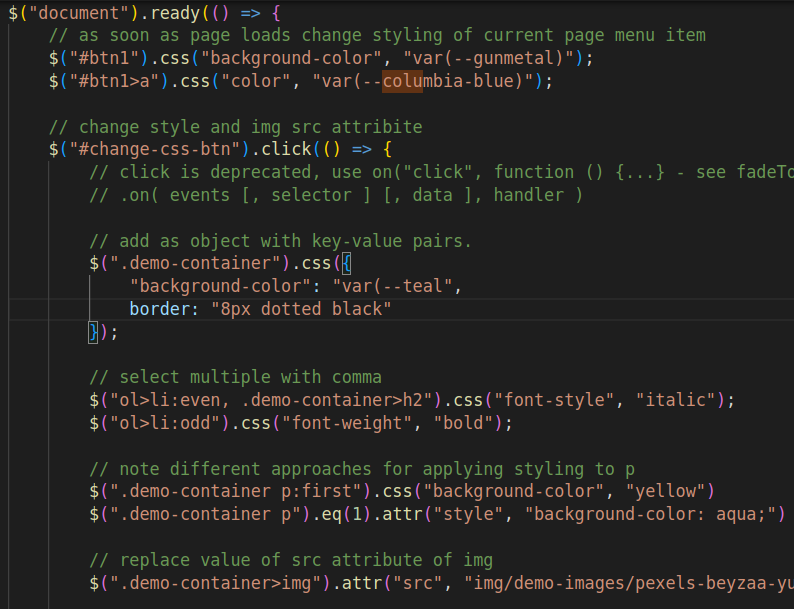
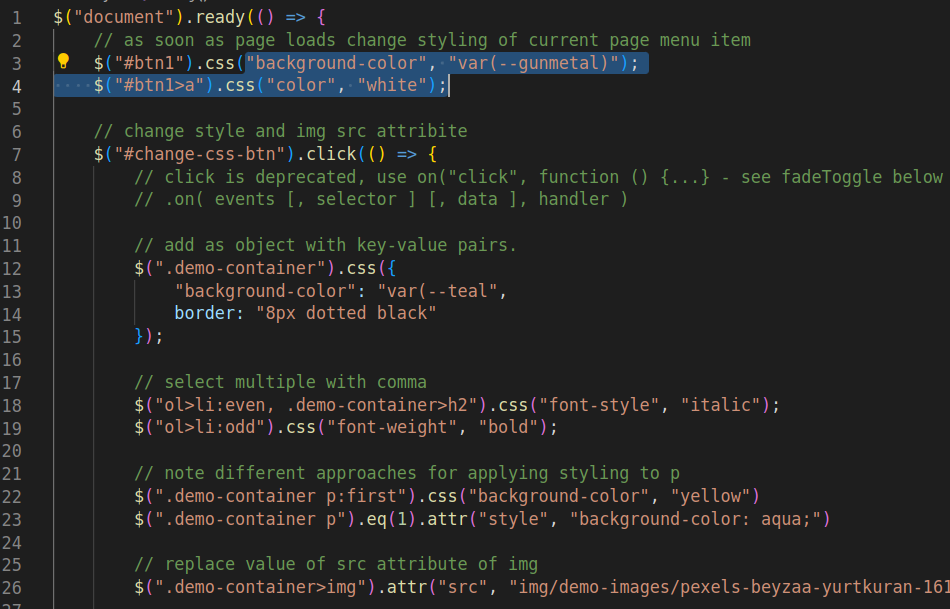
display flex of demo container to always keep buttons at bottom

diff --git a/events.html b/events.html
@@ -42,10 +42,10 @@
                 </tr>
                 <tr>
                     <td>
-                    <p>Syntax:&nbsp;&nbsp;</p>
+                        <p>Syntax:&nbsp;&nbsp;</p>
                     </td>
                     <td>
-                    <h3>on( events [, selector ] [, data ], handler ) </h3>
+                        <h3>on( events [, selector ] [, data ], handler ) </h3>
                     </td>
                 </tr>
             </table>
@@ -58,18 +58,21 @@
         </aside>
         <section>
             <div class="demo-container">
-                <h2>some heading</h2>
-                <ol id="events-list">
-                    <li>li Item 1</li>
-                    <li>li Item 2</li>
-                    <li>li Item 3</li>
-                    <li>li Item 4</li>
-                </ol>
-                <p>Paragraph 1</p>
-                <p>Paragraph 2</p>
-                <img src="img/demo-images/pexels-mathias-reding-16124576.jpg" alt="piano" class="demo--img">
+                <div>
+                    <h2>some heading</h2>
+                    <ol id="events-list">
+                        <li>li Item 1</li>
+                        <li>li Item 2</li>
+                        <li>li Item 3</li>
+                        <li>li Item 4</li>
+                    </ol>
+                    <p>Paragraph 1</p>
+                    <p>Paragraph 2</p>
+                    <img src="img/demo-images/pexels-mathias-reding-16124576.jpg" alt="piano" class="demo--img">
+                </div>
+
                 <div class="buttons-panel">
-                    <button id="change-css-btn" class="action-buttons">css</button>
+                    <button id="change-css-btn" class="action-buttons">css/attr</button>
                     <button id="toggle-fade-btn" class="action-buttons">fadeToggle</button>
                 </div>
             </div>
@@ -87,7 +90,6 @@
                     <p> .css( propertyName, value ) </p>
                     <p> .css( propertyName, function ) </p>
                     <p> .css( properties ) </p>
-
                     <h1>.attr() </h1>
                     <p>Get the value of an attribute for the first element in the set of matched elements or set one or
                         more
@@ -96,16 +98,38 @@
                     <p> .attr( attributeName, value )
                     <p> .attr( attributes ) </p>
                     <p> .attr( attributeName, function ) </p>
-
                     <h1> .fadeToggle( [duration ] [, easing ] [, complete ] )</h1>
-                    <h3>defauld duration: 400ms,  default easing: swing, complete is a call back function</h3>
-
-                                       
+                    <h3>defauld duration: 400ms, default easing: swing, complete is a call back function</h3>
                 </div>
             </div>
+
         </section>
 
         <section>
+            <div class="demo-container">
+                <div>
+                    <h2>another heading</h2>
+
+                    <ol id="events-list">
+                        <li>li Item 5</li>
+                        <li>li Item 6</li>
+                        <li>li Item 7</li>
+                        <li>li Item 8</li>
+                    </ol>
+                    <p>Paragraph 3</p>
+                    <p>Paragraph 4</p>
+                    <img src="/img/demo-images/pexels-viktoria-stetsko-11954769.jpg" alt="wheel" class="demo--img">
+                </div>
+                
+                <div class="buttons-panel">
+                    <button id="change-css-btn" class="action-buttons">css</button>
+                    <button id="toggle-fade-btn" class="action-buttons">fadeToggle</button>
+                </div>
+            </div>
+
+            <div class="info-container" id="info2">
+                <h1>events - click, mousein, mouseout, hover</h1>
+            </div>
         </section>
 
     </main>

diff --git a/style.css b/style.css
@@ -101,7 +101,7 @@ section {
     margin: 22px 0;
     display: flex;
     justify-content: space-between;
-    height: 530px;
+    height: 620px;
 }
 
 .demo-container {
@@ -111,6 +111,10 @@ section {
     text-align: center;
     padding: 11px;
     background-color: var(--columbia-blue);
+    /* to keep buttons at bottom of container if an element before is hidden/removed */
+    display: flex;
+    flex-direction: column;
+    justify-content: space-between;
 }
 
 .info-container {
